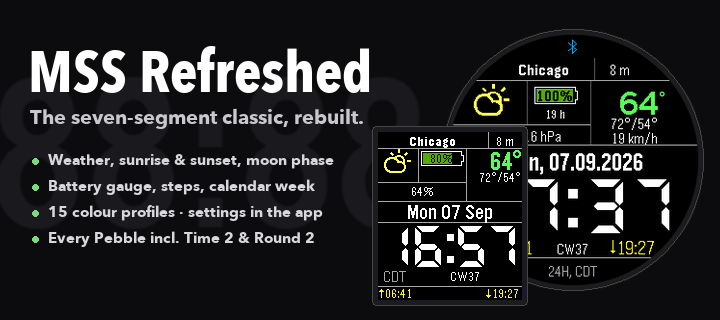
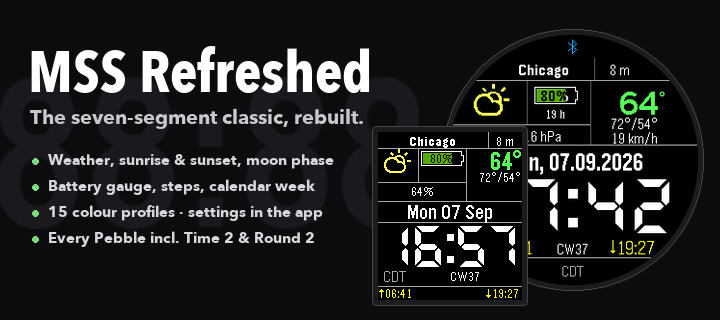
Emery: option to centre the extra information in the status row
New setting KEY_SET_EXTRA_INFO_CENTER (207), shown in the settings page
only for Emery. When on, the timezone text or the health group (icon,
measured step count, trend arrow) is centred on x=100 like Gabbro's bottom
cap, and the calendar week takes a left slot; seconds keep their slot on
the right. Off by default, so the layout is unchanged unless chosen.

The health-group centring code is now shared: round layouts always centre,
Emery centres when asked and otherwise anchors on the left inset.

Also pins the timezone format in the store-screenshot probe (a leaked
probe setting had put "24H, CDT" on the Gabbro shot) and regenerates the
Gabbro store screenshots and README copies.

diff --git a/src/pkjs/config.js b/src/pkjs/config.js
@@ -445,6 +445,14 @@ module.exports = [
                 ]
             },
             {
+                "type": "toggle",
+                "messageKey": "KEY_SET_EXTRA_INFO_CENTER",
+                "capabilities": ["PLATFORM_EMERY"],
+                "label": "Show it in the middle of the row",
+                "defaultValue": false,
+                "description": "The week number moves to the left; seconds stay on the right"
+            },
+            {
                 "type": "select",
                 "messageKey": "KEY_SET_SLEEP_UNTIL_HOUR",
                 "capabilities": ["HEALTH"],

diff --git a/src/c/ui/layers/status_layer.c b/src/c/ui/layers/status_layer.c
@@ -408,6 +408,16 @@ void status_layer_update(StatusLayer* sl) {
         }
         }
         text_layer_set_text(sl->timezone_layer, sl->tz_buf);
+#if defined(LAYOUT_REFINED_STATUS) && !defined(PBL_ROUND)
+        {
+            GRect tz = layout_get_rect(LAYOUT_TIMEZONE);
+            bool centred = settings->ExtraInfoCenter != 0;
+            // Centred: span the row (the week has moved to the left slot; seconds stay right)
+            layer_set_frame(text_layer_get_layer(sl->timezone_layer),
+                            centred ? GRect(60, tz.origin.y, 80, tz.size.h) : tz);
+            text_layer_set_text_alignment(sl->timezone_layer, centred ? GTextAlignmentCenter : GTextAlignmentLeft);
+        }
+#endif
     }
 
 #if defined(PBL_HEALTH)
@@ -449,18 +459,23 @@ void status_layer_update(StatusLayer* sl) {
             GSize size = graphics_text_layout_get_content_size(sl->health_buf, fonts_get_system_font(STATUS_MEDIUM_FONT),
                 GRect(0, 0, text.size.w, text.size.h), GTextOverflowModeTrailingEllipsis, GTextAlignmentLeft);
             const int16_t gap = 3;
-#if defined(PBL_ROUND)
             GRect icon = layout_get_rect(LAYOUT_HEALTH_ICON);
-            int16_t total = icon.size.w + gap + size.w + gap + trend.size.w;
-            int16_t x0 = layer_get_bounds(sl->root_layer).size.w / 2 - total / 2;
-            layer_set_frame(bitmap_layer_get_layer(sl->health_icon_layer), GRect(x0, icon.origin.y, icon.size.w, icon.size.h));
-            layer_set_frame(text_layer_get_layer(sl->health_text_layer), GRect(x0 + icon.size.w + gap, text.origin.y, size.w + 2, text.size.h));
-            layer_set_frame(sl->health_trend_layer, GRect(x0 + icon.size.w + gap + size.w + gap, trend.origin.y, trend.size.w, trend.size.h));
-#else
-            int16_t x = text.origin.x + size.w + gap;
-            if (x + trend.size.w > text.origin.x + text.size.w) x = text.origin.x + text.size.w - trend.size.w;
-            layer_set_frame(sl->health_trend_layer, GRect(x, trend.origin.y, trend.size.w, trend.size.h));
-#endif
+            // Round: always centred in the bottom cap. Emery: centred in the
+            // status row when the user asks for it, otherwise on the left inset.
+            bool centred = PBL_IF_ROUND_ELSE(true, settings->ExtraInfoCenter != 0);
+            if (centred) {
+                int16_t total = icon.size.w + gap + size.w + gap + trend.size.w;
+                int16_t x0 = layer_get_bounds(sl->root_layer).size.w / 2 - total / 2;
+                layer_set_frame(bitmap_layer_get_layer(sl->health_icon_layer), GRect(x0, icon.origin.y, icon.size.w, icon.size.h));
+                layer_set_frame(text_layer_get_layer(sl->health_text_layer), GRect(x0 + icon.size.w + gap, text.origin.y, size.w + 2, text.size.h));
+                layer_set_frame(sl->health_trend_layer, GRect(x0 + icon.size.w + gap + size.w + gap, trend.origin.y, trend.size.w, trend.size.h));
+            } else {
+                layer_set_frame(bitmap_layer_get_layer(sl->health_icon_layer), icon);
+                layer_set_frame(text_layer_get_layer(sl->health_text_layer), text);
+                int16_t x = text.origin.x + size.w + gap;
+                if (x + trend.size.w > text.origin.x + text.size.w) x = text.origin.x + text.size.w - trend.size.w;
+                layer_set_frame(sl->health_trend_layer, GRect(x, trend.origin.y, trend.size.w, trend.size.h));
+            }
         }
 #endif
         layer_mark_dirty(sl->health_trend_layer);

diff --git a/src/c/ui/layout.c b/src/c/ui/layout.c
@@ -42,6 +42,7 @@ static const GRect s_rects[LAYOUT_COUNT] = {
     [LAYOUT_WEATHER_STRING3]     = { .origin = {3, 71},   .size = {114, 22} },
     [LAYOUT_DATE]                = { .origin = {0, 92},   .size = {200, 38} },  // 6px under the rule, 5px above the digits
     [LAYOUT_CW]                  = { .origin = {83, 181}, .size = {50, 22} },   // Fixed middle slot (centred text); seconds live to its right
+    [LAYOUT_CW_LEFT]             = { .origin = {8, 181},  .size = {50, 22} },   // When the extra information is centred instead
     [LAYOUT_BATTERY_TEXT]        = { .origin = {72, 23},  .size = {41, 22} },
     [LAYOUT_BATTERY_TIME]        = { .origin = {67, 45},  .size = {50, 20} },
     [LAYOUT_BATTERY_BOX]         = { .origin = {71, 26},  .size = {44, 18} },

diff --git a/src/c/ui/layers/date_layer.c b/src/c/ui/layers/date_layer.c
@@ -71,3 +71,12 @@ void date_layer_update_color(DateLayer* dl, GColor color) {
 void date_layer_set_cw_visible(DateLayer* dl, bool visible) {
     layer_set_hidden(text_layer_get_layer(dl->cw_layer), !visible);
 }
+
+void date_layer_set_cw_left(DateLayer* dl, bool left) {
+#if defined(LAYOUT_REFINED_STATUS) && !defined(PBL_ROUND)
+    layer_set_frame(text_layer_get_layer(dl->cw_layer), layout_get_rect(left ? LAYOUT_CW_LEFT : LAYOUT_CW));
+    text_layer_set_text_alignment(dl->cw_layer, left ? GTextAlignmentLeft : GTextAlignmentCenter);
+#else
+    (void)dl; (void)left;
+#endif
+}

diff --git a/src/c/state/settings.h b/src/c/state/settings.h
@@ -46,6 +46,7 @@ typedef struct {
   int HideBatteryTime;   // 1 hides the time-since-charge under the battery
   int LeadingZero;       // 0 drops the leading zero of single-digit hours
   int SleepUntilHour;    // Auto health mode: sleep until this hour, steps after
+  int ExtraInfoCenter;   // Emery: timezone / health centred in the status row, week on the left
   
   // State
   int AppFirstStart;

diff --git a/src/c/keys.h b/src/c/keys.h
@@ -71,3 +71,4 @@
 #define KEY_SET_HIDE_BATTERY_TIME  204  // 1 hides the time-since-charge under the battery
 #define KEY_SET_LEADING_ZERO       205  // 0 shows 8:30 instead of 08:30
 #define KEY_SET_SLEEP_UNTIL_HOUR   206  // Auto health mode shows sleep until this hour
+#define KEY_SET_EXTRA_INFO_CENTER  207  // Emery: timezone / health in the middle of the status row

diff --git a/src/c/main.c b/src/c/main.c
@@ -271,6 +271,7 @@ static void update_colors_all() {
 static void update_all_ui() {
     update_colors_all();
     time_layer_set_leading_zero(s_time_layer, settings_get_instance()->LeadingZero != 0);
+    date_layer_set_cw_left(s_date_layer, settings_get_instance()->ExtraInfoCenter != 0);
     
     // Time
     time_t now = time(NULL);

diff --git a/src/c/ui/layers/date_layer.h b/src/c/ui/layers/date_layer.h
@@ -19,3 +19,5 @@ void date_layer_update_color(DateLayer* layer, GColor color);
 // Show/hide calendar week
 void date_layer_set_cw_visible(DateLayer* layer, bool visible);
 
+// Emery: put the week label in the left slot (true) or the middle slot (false)
+void date_layer_set_cw_left(DateLayer* dl, bool left);

diff --git a/src/c/ui/layout.h b/src/c/ui/layout.h
@@ -38,6 +38,7 @@ typedef enum {
     LAYOUT_WEATHER_STRING3,
     LAYOUT_DATE,
     LAYOUT_CW,
+    LAYOUT_CW_LEFT,   // Week label's slot when the extra information takes the middle (Emery)
     LAYOUT_BATTERY_TEXT,
     LAYOUT_BATTERY_TIME,
     LAYOUT_BATTERY_BOX,
